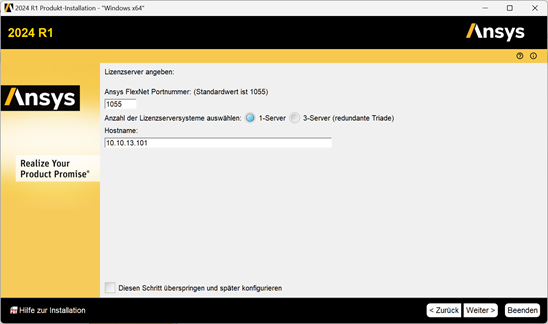
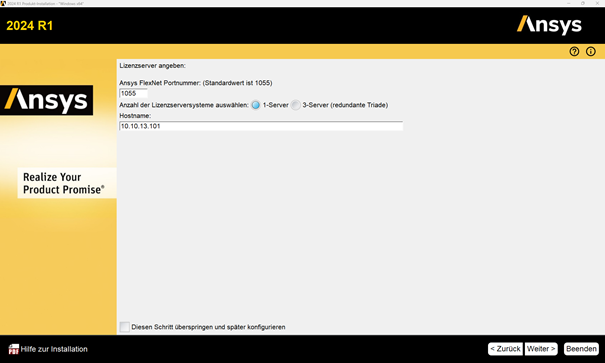
Bilder installation jetzt besser und in EN

Changed region(s): [[0.0, 0.0, 1.0, 1.0]]

diff --git a/docs/02_installation_erste_schritte.en.md b/docs/02_installation_erste_schritte.en.md
@@ -48,43 +48,43 @@ Download the following files (VPN not required):
 *3.*  Follow the installation steps as shown in the images below. Some settings must be adjusted. **Do not change any file paths.**  
 *4.*  Select “Install ANSYS Products”:
 
-[![Install start](media/02_Installation_ansys/02_01.png){width=600px}](media/02_Installation_ansys/02_01.png "Install start"){.glightbox}  
+[![Install start](media/02_Installation_ansys/02_01.en.png){width=600px}](media/02_Installation_ansys/02_01.en.png "Install start"){.glightbox}  
 
 *5.*  Accept settings:
 
-[![EULA](media/02_Installation_ansys/02_02.png){width=600px}](media/02_Installation_ansys/02_02.png "EULA"){.glightbox}  
+[![EULA](media/02_Installation_ansys/02_02.en.png){width=600px}](media/02_Installation_ansys/02_02.en.png "EULA"){.glightbox}  
 
 *6.*  Accept settings, do not change file paths:
 
-[![Path settings](media/02_Installation_ansys/02_03.png){width=600px}](media/02_Installation_ansys/02_03.png "Path settings"){.glightbox}  
+[![Path settings](media/02_Installation_ansys/02_03.en.png){width=600px}](media/02_Installation_ansys/02_03.en.png "Path settings"){.glightbox}  
 
 *7.*  Enter license server: `10.10.13.101`, VPN connection required:
 
-[![License server](media/02_Installation_ansys/02_04.png){width=600px}](media/02_Installation_ansys/02_04.png "License server"){.glightbox}  
+[![License server](media/02_Installation_ansys/02_04.en.png){width=600px}](media/02_Installation_ansys/02_04.en.png "License server"){.glightbox}  
 
 *8.*  Only select **Geometry Interfaces** and **Mechanical Products**:
 
-[![Components](media/02_Installation_ansys/02_05.png){width=600px}](media/02_Installation_ansys/02_05.png "Components"){.glightbox}  
+[![Components](media/02_Installation_ansys/02_05.en.png){width=600px}](media/02_Installation_ansys/02_05.en.png "Components"){.glightbox}  
 
 *9.*  Next:
 
-[![CAD interfaces](media/02_Installation_ansys/02_06.png){width=600px}](media/02_Installation_ansys/02_06.png "CAD interfaces"){.glightbox}  
+[![CAD interfaces](media/02_Installation_ansys/02_06.en.png){width=600px}](media/02_Installation_ansys/02_06.en.png "CAD interfaces"){.glightbox}  
 
 *10.*  Next (contents may vary by system):
 
-[![CAD interface configuration](media/02_Installation_ansys/02_07.png){width=600px}](media/02_Installation_ansys/02_07.png "CAD interface configuration"){.glightbox}  
+[![CAD interface configuration](media/02_Installation_ansys/02_07.en.png){width=600px}](media/02_Installation_ansys/02_07.en.png "CAD interface configuration"){.glightbox}  
 
 *11.*  Next (contents may vary by system):
 
-[![Review settings](media/02_Installation_ansys/02_08.png){width=600px}](media/02_Installation_ansys/02_08.png "Review settings"){.glightbox}  
+[![Review settings](media/02_Installation_ansys/02_08.en.png){width=600px}](media/02_Installation_ansys/02_08.en.png "Review settings"){.glightbox}  
 
 *12.*  Installation complete:
 
-[![Installation](media/02_Installation_ansys/02_09.png){width=600px}](media/02_Installation_ansys/02_09.png "Installation"){.glightbox}  
+[![Installation](media/02_Installation_ansys/02_09.en.png){width=600px}](media/02_Installation_ansys/02_09.en.png "Installation"){.glightbox}  
 
 *13.*  Installation finished (contents may vary by system):
 
-[![Finish](media/02_Installation_ansys/02_10.png){width=600px}](media/02_Installation_ansys/02_10.png "Finish"){.glightbox}  
+[![Finish](media/02_Installation_ansys/02_10.en.png){width=600px}](media/02_Installation_ansys/02_10.en.png "Finish"){.glightbox}  
 
 *14.*  To use ANSYS, a connection to the HFU license server is required. This is only possible outside the university via VPN. Inside the campus network, VPN is not necessary.  
 *15.*  Continue with the service update.
@@ -97,31 +97,31 @@ Download the following files (VPN not required):
 *2.*  Run `setup.exe` **as administrator**.  
 *3.*  Select “Install ANSYS Products”:
 
-[![Service update](media/02_Installation_ansys/02_11.png){width=600px}](media/02_Installation_ansys/02_11.png "Service update"){.glightbox}  
+[![Service update](media/02_Installation_ansys/02_11.en.png){width=600px}](media/02_Installation_ansys/02_11.en.png "Service update"){.glightbox}  
 
 *4.*  Accept settings:
 
-[![EULA](media/02_Installation_ansys/02_12.png){width=600px}](media/02_Installation_ansys/02_12.png "EULA"){.glightbox}  
+[![EULA](media/02_Installation_ansys/02_12.en.png){width=600px}](media/02_Installation_ansys/02_12.en.png "EULA"){.glightbox}  
 
 *5.*  Next, do not change file paths:
 
-[![Path settings](media/02_Installation_ansys/02_13.png){width=600px}](media/02_Installation_ansys/02_13.png "Path settings"){.glightbox}  
+[![Path settings](media/02_Installation_ansys/02_13.en.png){width=600px}](media/02_Installation_ansys/02_13.en.png "Path settings"){.glightbox}  
 
 *6.*  Accept settings and continue:
 
-[![Component selection](media/02_Installation_ansys/02_14.png){width=600px}](media/02_Installation_ansys/02_14.png "Component selection"){.glightbox}  
+[![Component selection](media/02_Installation_ansys/02_14.en.png){width=600px}](media/02_Installation_ansys/02_14.en.png "Component selection"){.glightbox}  
 
 *7.*  Next:
 
-[![Review settings](media/02_Installation_ansys/02_15.png){width=600px}](media/02_Installation_ansys/02_15.png "Review settings"){.glightbox}  
+[![Review settings](media/02_Installation_ansys/02_15.en.png){width=600px}](media/02_Installation_ansys/02_15.en.png "Review settings"){.glightbox}  
 
 *8.*  Installation complete:
 
-[![Service install](media/02_Installation_ansys/02_16.png){width=600px}](media/02_Installation_ansys/02_16.png "Service install"){.glightbox}  
+[![Service install](media/02_Installation_ansys/02_16.en.png){width=600px}](media/02_Installation_ansys/02_16.en.png "Service install"){.glightbox}  
 
 *9.*  Finish:
 
-[![Finish](media/02_Installation_ansys/02_17.png){width=600px}](media/02_Installation_ansys/02_17.png "Finish"){.glightbox}  
+[![Finish](media/02_Installation_ansys/02_17.en.png){width=600px}](media/02_Installation_ansys/02_17.en.png "Finish"){.glightbox}  
 
 *10.*  The ZIP file and extracted data can now be deleted.
 
